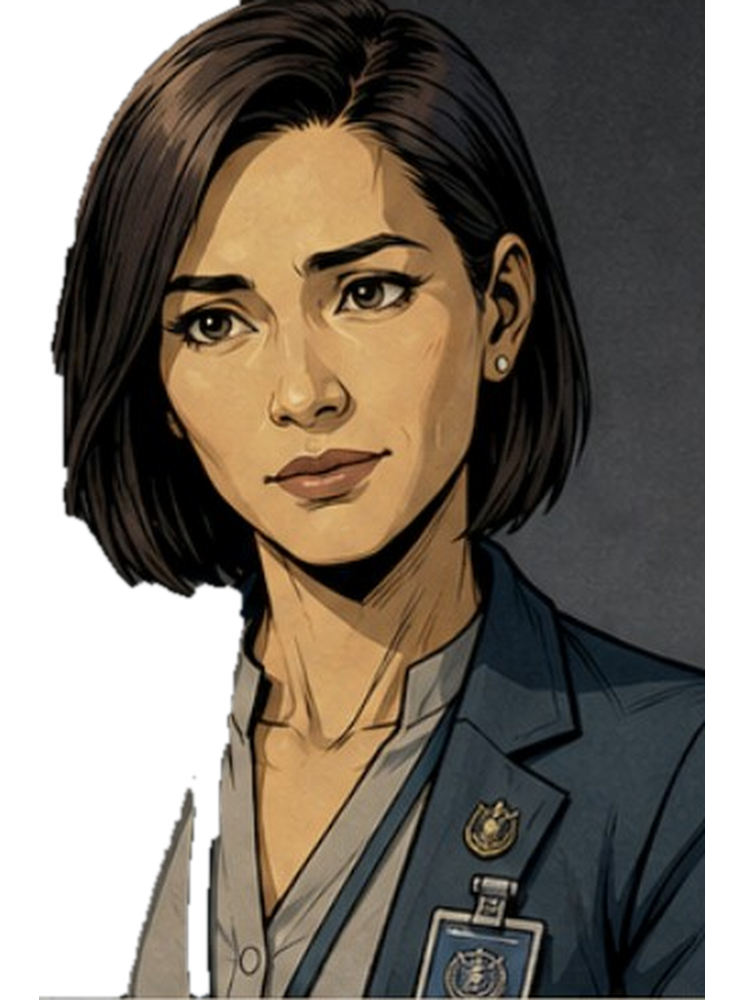
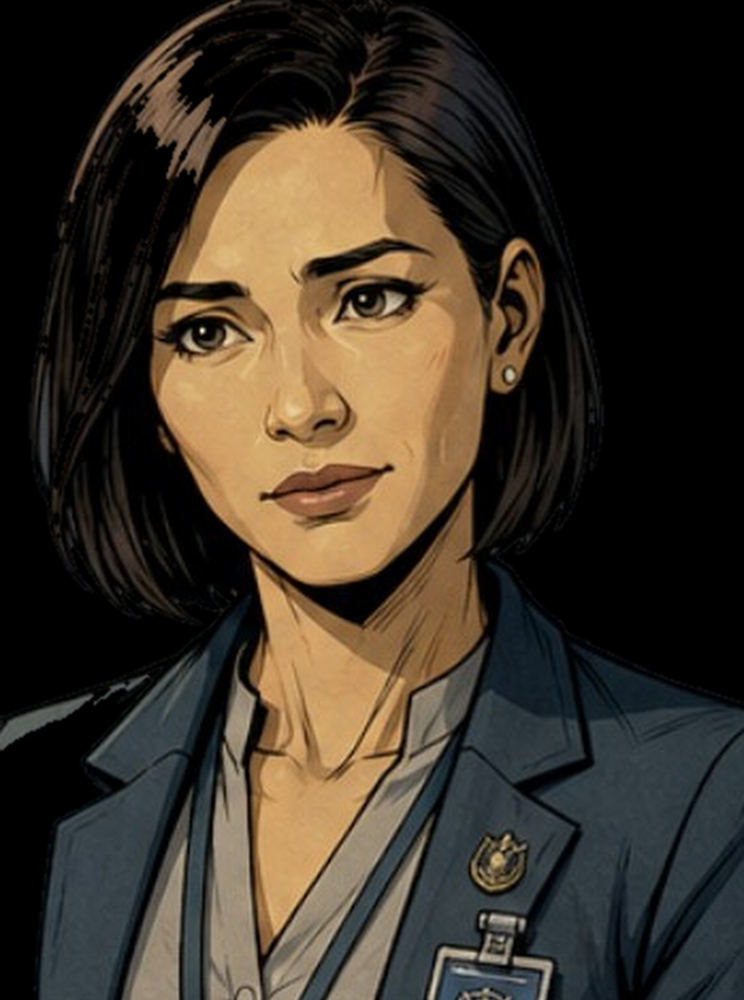
Add files via upload

diff --git a/js/chapters/chapter-04/02-jakarta-arrival.js b/js/chapters/chapter-04/02-jakarta-arrival.js
@@ -1,9 +1,9 @@
-/* LAST WITNESS — Chapter IV / Phase II: JAKARTA ARRIVAL 0.14.2 */
+/* LAST WITNESS — Chapter IV / Phase II: JAKARTA ARRIVAL 0.14.3 */
 (function(){
 "use strict";
-if(window.LastWitnessChapter4Phase2?.version==="0.14.2")return;
+if(window.LastWitnessChapter4Phase2?.version==="0.14.3")return;
 
-const BUILD="0.14.2";
+const BUILD="0.14.3";
 const FLIGHT="jakartaFlight";
 const AIRPORT="jakartaAirport";
 const OFFICE="jakartaCybercrimeOffice";
@@ -69,6 +69,12 @@ function fade(media,target,duration=430){
  fadeFrames.set(media,requestAnimationFrame(step))
 }
 function overlaysOpen(){return choiceOpen||consoleOpen}
+function playTakeoffAmbience(){
+ const s=gs(),a=$("#ch4P2TakeoffAmbience"),video=$("#ch4P2FlightVideo");if(s?.sound===false)return;const level=clamp(Number(s?.music??.33));
+ const retry=()=>{if(active()!==FLIGHT)return;try{if(a&&a.paused){a.muted=false;a.volume=clamp(level*.42,0,.38);a.play().catch(()=>{})}if(video&&video.paused){video.muted=false;video.volume=clamp(level*.18,0,.18);video.play().catch(()=>{})}}catch(_){}};
+ if(a){try{a.pause();a.currentTime=0;a.muted=false;a.volume=clamp(level*.42,0,.38);a.play().catch(()=>document.addEventListener("pointerdown",retry,{once:true}))}catch(_){}}
+ if(video){try{video.muted=false;video.volume=clamp(level*.18,0,.18)}catch(_){}}
+}
 function syncAudio(){
  const s=gs(),screen=active(),enabled=s?.sound!==false&&Number(s?.music??.33)>0,music=clamp(Number(s?.music??.33));
  const inFlight=screen===FLIGHT,inAirport=screen===AIRPORT,inOffice=screen===OFFICE,inLab=screen===LAB,inComplete=screen===COMPLETE;
@@ -186,7 +192,7 @@ function labObjective(){const p=ensure();if(!p?.verificationStarted)return tr("V
 
 function installPortraits(){
  const maya={
-  neutral:MAYA_BASE+"neutral.png?v=0142",focused:MAYA_BASE+"focused.png?v=0142",skeptical:MAYA_BASE+"skeptical.png?v=0142",analytical:MAYA_BASE+"analytical.png?v=0142",authoritative:MAYA_BASE+"authoritative.png?v=0142",questioning:MAYA_BASE+"questioning.png?v=0142",restrained_approval:MAYA_BASE+"restrained-approval.png?v=0142",calm_professional:MAYA_BASE+"calm-professional.png?v=0142",alert:MAYA_BASE+"alert.png?v=0142",decisive:MAYA_BASE+"decisive.png?v=0142",guarded:MAYA_BASE+"guarded.png?v=0142",softened_respect:MAYA_BASE+"softened-respect.png?v=0142",serious:MAYA_BASE+"focused.png?v=0142"
+  neutral:MAYA_BASE+"neutral.png?v=0143",focused:MAYA_BASE+"focused.png?v=0143",skeptical:MAYA_BASE+"skeptical.png?v=0143",analytical:MAYA_BASE+"analytical.png?v=0143",authoritative:MAYA_BASE+"authoritative.png?v=0143",questioning:MAYA_BASE+"questioning.png?v=0143",restrained_approval:MAYA_BASE+"restrained-approval.png?v=0143",calm_professional:MAYA_BASE+"calm-professional.png?v=0143",alert:MAYA_BASE+"alert.png?v=0143",decisive:MAYA_BASE+"decisive.png?v=0143",guarded:MAYA_BASE+"guarded.png?v=0143",softened_respect:MAYA_BASE+"softened-respect.png?v=0143",serious:MAYA_BASE+"focused.png?v=0143"
  };
  try{PORTRAITS["Inspector Maya Pranoto"]=maya;PORTRAITS["สารวัตร Maya Pranoto"]=maya;PORTRAITS["Maya Pranoto"]=maya}catch(_){}
 }
@@ -195,7 +201,7 @@ function mayaData(){return{
  role:{en:"Indonesian National Police Cybercrime Liaison",th:"ผู้ประสานงานตำรวจไซเบอร์อินโดนีเซีย"},
  status:{en:"Jurisdictional Partner",th:"พันธมิตรด้านเขตอำนาจ"},
  bio:{en:"A disciplined Indonesian cybercrime liaison who understands local infrastructure and refuses to collapse route, tool, operator and decision ownership into one conclusion.",th:"ผู้ประสานงานตำรวจไซเบอร์อินโดนีเซียผู้มีวินัย เข้าใจโครงสร้างพื้นฐานในพื้นที่ และไม่ยอมรวมเส้นทาง เครื่องมือ ผู้ใช้งาน และเจ้าของการตัดสินใจให้เป็นข้อสรุปเดียว"},
- src:MAYA_BASE+"profile.png?v=0142",relation:{value:61},metrics:[
+ src:MAYA_BASE+"profile.png?v=0143",relation:{value:61},metrics:[
   {key:"trust",label:{en:"Trust",th:"ความไว้วางใจ"},value:48},{key:"respect",label:{en:"Professional Respect",th:"ความนับถือทางวิชาชีพ"},value:66},{key:"rapport",label:{en:"Rapport",th:"ความคุ้นเคย"},value:8},{key:"suspicion",label:{en:"Suspicion",th:"ความสงสัย"},value:20}
  ]
 }}
@@ -224,7 +230,7 @@ function showMayaDetail(){
  const metrics=[
   [tr("Trust","ความไว้วางใจ"),r.trust,false],[tr("Professional Respect","ความนับถือทางวิชาชีพ"),r.respect,false],[tr("Rapport","ความคุ้นเคย"),r.attachment,false],[tr("Suspicion","ความสงสัย"),r.suspicion,true]
  ];
- detail.innerHTML=`<div data-detail-shell><div class="character-detail-head"><img data-detail-portrait data-detail-image="maya" src="${d.src}" alt="" width="512" height="640" loading="eager" decoding="async"><div class="maya-meta"><div class="character-name">${d.name[thai()?"th":"en"]}</div><div class="character-status">${d.role[thai()?"th":"en"]}<br><span class="character-age">37</span></div></div></div><div class="relation-metrics">${metrics.map(m=>`<div class="relation-metric${m[2]?" suspicion":""}"><div class="relation-metric-head"><span>${m[0]}</span><strong>${Math.round(Number(m[1])||0)}%</strong></div><div class="relation-bar"><div class="relation-fill" style="width:${Math.round(Number(m[1])||0)}%"></div></div></div>`).join("")}</div><div class="character-notes">${d.bio[thai()?"th":"en"]}</div></div>`;
+ detail.innerHTML=`<div data-detail-shell><div class="character-detail-head"><img data-detail-portrait data-detail-image="maya" src="${d.src}" alt="" width="512" height="640" loading="eager" decoding="async"><div class="maya-meta"><div class="character-name">${d.name[thai()?"th":"en"]}</div><div class="character-status">${thai()?"ผู้ประสานงานตำรวจไซเบอร์<br>อินโดนีเซีย":"Indonesian National Police<br>Cybercrime Liaison"}<br><span class="character-age">37</span></div></div></div><div class="relation-metrics">${metrics.map(m=>`<div class="relation-metric${m[2]?" suspicion":""}"><div class="relation-metric-head"><span>${m[0]}</span><strong>${Math.round(Number(m[1])||0)}%</strong></div><div class="relation-bar"><div class="relation-fill" style="width:${Math.round(Number(m[1])||0)}%"></div></div></div>`).join("")}</div><div class="character-notes">${d.bio[thai()?"th":"en"]}</div></div>`;
  if(grid)grid.style.display="none";detail.style.display="block";if(back)back.style.display="block"
 }
 function syncMayaDot(){const s=gs(),p=ensure(),mayaUnread=Boolean(mayaVisible()&&p?.mayaUnread),baseUnread=Boolean((s?.lwCharactersUnread||[]).length&&s?.journal?.seen===false);$$('.journal-alert').forEach(node=>node.classList.toggle('show',mayaUnread||baseUnread))}
@@ -238,16 +244,16 @@ function installJournalExtension(){
  renderMayaCard();syncMayaDot()
 }
 
-function injectStyle(){if($("#lwChapter04Phase02Style"))return;const link=document.createElement("link");link.id="lwChapter04Phase02Style";link.rel="stylesheet";link.href="css/chapter-04-phase-02.css?v=0142";document.head.appendChild(link)}
-function audioMarkup(){return `<audio id="ch4P2ArrivalScore" preload="auto" loop><source src="${AUDIO_BASE}jakarta-arrival-loop.webm?v=0142" type="audio/webm"><source src="${AUDIO_BASE}jakarta-arrival-loop.mp3?v=0142" type="audio/mpeg"></audio><audio id="ch4P2VerificationScore" preload="auto" loop><source src="${AUDIO_BASE}token-verification-loop.webm?v=0142" type="audio/webm"><source src="${AUDIO_BASE}token-verification-loop.mp3?v=0142" type="audio/mpeg"></audio><audio id="ch4P2AirportAmbience" preload="auto" loop><source src="${AUDIO_BASE}jakarta-airport-ops-loop.webm?v=0142" type="audio/webm"><source src="${AUDIO_BASE}jakarta-airport-ops-loop.mp3?v=0142" type="audio/mpeg"></audio><audio id="ch4P2AirportFieldBase" preload="auto" loop src="assets/audio/chapter-03/phase-03/changi-airport-ambience.mp3?v=0800"></audio><audio id="ch4P2OfficeAmbience" preload="auto" loop><source src="${AUDIO_BASE}jakarta-cybercrime-office-loop.webm?v=0142" type="audio/webm"><source src="${AUDIO_BASE}jakarta-cybercrime-office-loop.mp3?v=0142" type="audio/mpeg"></audio><audio id="ch4P2OfficeFieldBase" preload="auto" loop src="assets/audio/chapter-03/phase-04/singapore-investigation-office-ambience.mp3?v=0920"></audio>`}
+function injectStyle(){if($("#lwChapter04Phase02Style"))return;const link=document.createElement("link");link.id="lwChapter04Phase02Style";link.rel="stylesheet";link.href="css/chapter-04-phase-02.css?v=0143";document.head.appendChild(link)}
+function audioMarkup(){return `<audio id="ch4P2ArrivalScore" preload="auto" loop><source src="${AUDIO_BASE}jakarta-arrival-loop.webm?v=0143" type="audio/webm"><source src="${AUDIO_BASE}jakarta-arrival-loop.mp3?v=0143" type="audio/mpeg"></audio><audio id="ch4P2VerificationScore" preload="auto" loop><source src="${AUDIO_BASE}token-verification-loop.webm?v=0143" type="audio/webm"><source src="${AUDIO_BASE}token-verification-loop.mp3?v=0143" type="audio/mpeg"></audio><audio id="ch4P2TakeoffAmbience" preload="auto"><source src="${AUDIO_BASE}airplane-takeoff-ambience.webm?v=0143" type="audio/webm"><source src="${AUDIO_BASE}airplane-takeoff-ambience.mp3?v=0143" type="audio/mpeg"></audio><audio id="ch4P2AirportAmbience" preload="auto" loop><source src="${AUDIO_BASE}jakarta-airport-ops-loop.webm?v=0143" type="audio/webm"><source src="${AUDIO_BASE}jakarta-airport-ops-loop.mp3?v=0143" type="audio/mpeg"></audio><audio id="ch4P2AirportFieldBase" preload="auto" loop src="assets/audio/chapter-03/phase-03/changi-airport-ambience.mp3?v=0800"></audio><audio id="ch4P2OfficeAmbience" preload="auto" loop><source src="${AUDIO_BASE}jakarta-cybercrime-office-loop.webm?v=0143" type="audio/webm"><source src="${AUDIO_BASE}jakarta-cybercrime-office-loop.mp3?v=0143" type="audio/mpeg"></audio><audio id="ch4P2OfficeFieldBase" preload="auto" loop src="assets/audio/chapter-03/phase-04/singapore-investigation-office-ambience.mp3?v=0920"></audio>`}
 function sharedScene(id,classes,image,alt){return `<section id="${id}" class="screen ch4-p2-screen ${classes}"><img class="scene" src="${image}" alt="${alt}"><div class="overlay ch4-p2-overlay"></div><div class="topbar"><span id="${id}Location"></span><div class="hud"><button class="icon ch4-p2-save" type="button">💾</button><button class="icon ch4-p2-menu" type="button">☰<i class="journal-alert" aria-hidden="true"></i></button></div></div><div id="${id}Scene" class="ch4-p2-label"></div><div id="${id}Objective" class="ch4-p2-objective"></div><div id="${id}Dialogue" class="dialogue ch4-p2-dialogue hidden"></div><button id="${id}Action" class="primary ch4-p2-action" type="button" hidden></button><div class="ch4-p2-progress"><span class="ch4-p2-progress-text">0%</span><div><i class="ch4-p2-progress-fill"></i></div></div></section>`}
 function inject(){
  if($("#"+FLIGHT))return;const game=$("#game");if(!game)return;
  game.insertAdjacentHTML("beforeend",`
  <section id="${FLIGHT}" class="screen ch4-p2-flight"><video id="ch4P2FlightVideo" poster="${TAKEOFF_POSTER}" preload="auto" playsinline muted><source src="${TAKEOFF_VIDEO}" type="video/mp4"></video><div class="ch4-p2-flight-shade"></div><div class="ch4-p2-flight-head"><span id="ch4P2FlightHead"></span><span id="ch4P2FlightStatus"></span></div><div id="ch4P2FlightRoute" class="ch4-p2-flight-route"><div id="ch4P2RouteEye" class="eyebrow"></div><h2 id="ch4P2RouteTitle"></h2><div class="ch4-p2-route-grid"><div><span id="ch4P2DepartLabel"></span><strong>SINGAPORE<br>23:20 SGT</strong></div><div class="ch4-p2-route-arrow">→</div><div><span id="ch4P2ArriveLabel"></span><strong>JAKARTA<br>00:10 WIB</strong></div></div><p id="ch4P2FlightTime"></p><button id="ch4P2RouteContinue" class="primary" type="button"></button></div><button id="ch4P2Skip" class="ghost ch4-p2-skip" type="button"></button></section>
- ${sharedScene(AIRPORT,"ch4-p2-airport",BASE+"jakarta-airport-operations-corridor.png?v=0142","Jakarta airport operations corridor at night")}
- ${sharedScene(OFFICE,"ch4-p2-office",BASE+"jakarta-cybercrime-office.png?v=0142","Jakarta cybercrime operations office")}
- ${sharedScene(LAB,"ch4-p2-lab",BASE+"jakarta-verification-lab.png?v=0142","Jakarta verification laboratory")}
+ ${sharedScene(AIRPORT,"ch4-p2-airport",BASE+"jakarta-airport-operations-corridor.png?v=0143","Jakarta airport operations corridor at night")}
+ ${sharedScene(OFFICE,"ch4-p2-office",BASE+"jakarta-cybercrime-office.png?v=0143","Jakarta cybercrime operations office")}
+ ${sharedScene(LAB,"ch4-p2-lab",BASE+"jakarta-verification-lab.png?v=0143","Jakarta verification laboratory")}
  <section id="${COMPLETE}" class="screen ch4-p2-complete"><div class="ch4-p2-complete-card"><div id="ch4P2CompleteEye" class="eyebrow"></div><h2 id="ch4P2CompleteTitle"></h2><div class="ch4-p2-rule"></div><p id="ch4P2CompleteBody"></p><div class="ch4-p2-complete-grid"><div><span>TOKEN</span><b>GENUINE · SINGLE USE</b></div><div><span>BROKER ROUTE</span><b>JAKARTA-LINKED</b></div><div><span>ATTRIBUTION ROLE</span><b>NORTH</b></div><div><span>HUMAN IDENTITY</span><b>UNRESOLVED</b></div></div><strong id="ch4P2Next"></strong><button id="ch4P2ReturnTitle" class="primary" type="button"></button></div></section>
  <div id="ch4P2Choice" class="modal ch4-p2-choice" aria-hidden="true"><div class="modal-card"><div class="eyebrow">BENEDICT · OPERATIONAL PRINCIPLE</div><h3 id="ch4P2ChoiceTitle"></h3><button type="button" data-ch4-p2-choice="tool"></button><button type="button" data-ch4-p2-choice="jurisdiction"></button><button type="button" data-ch4-p2-choice="trap"></button></div></div>
  <div id="ch4P2Console" class="modal ch4-p2-console" aria-hidden="true"><div class="modal-card"><header><div><div id="ch4P2ConsoleEye" class="eyebrow"></div><h3 id="ch4P2ConsoleTitle"></h3></div><button id="ch4P2ConsoleClose" class="ghost" type="button">×</button></header><div class="ch4-p2-console-readout"><span>TOKEN STATE</span><strong id="ch4P2TokenState">PRESERVED · SINGLE USE</strong><span>NETWORK</span><b id="ch4P2NetworkState">DISCONNECTED</b><span>ATTRIBUTION</span><b id="ch4P2AttributionState">UNRESOLVED</b></div><div id="ch4P2ConsoleLog" class="ch4-p2-console-log"></div><div id="ch4P2ConsoleActions" class="ch4-p2-console-actions">${["preserve_hash","clone_sandbox","passive_challenge","compare_grammar","open_live","trace_responder"].map(id=>`<button type="button" data-verify-action="${id}"></button>`).join("")}</div><div id="ch4P2ConsoleStatus" class="ch4-p2-console-status" aria-live="polite"></div></div></div>
@@ -282,7 +288,7 @@ function startFromPhase1(){
 }
 function enterFlight(){
  const p=ensure();p.started=true;p.stage="flight";setCheckpoint("ch4_phase2_flight");safeShow(FLIGHT);$("#ch4P2FlightRoute")?.classList.remove("show");$("#ch4P2Skip")&&( $("#ch4P2Skip").hidden=false );updateLanguage();
- const video=$("#ch4P2FlightVideo");if(!video){showRouteCard();return}try{video.currentTime=0;video.muted=true;video.play().catch(()=>{flightTimer=setTimeout(showRouteCard,1200)})}catch(_){flightTimer=setTimeout(showRouteCard,800)}
+ const video=$("#ch4P2FlightVideo");playTakeoffAmbience();if(!video){showRouteCard();return}try{video.currentTime=0;video.play().catch(()=>{flightTimer=setTimeout(showRouteCard,1200)})}catch(_){flightTimer=setTimeout(showRouteCard,800)}
 }
 function showRouteCard(){
  clearTimeout(flightTimer);const p=ensure();p.flightComplete=true;p.routeCardSeen=true;p.stage="route-card";setCheckpoint("ch4_phase2_route_card");safeShow(FLIGHT);const video=$("#ch4P2FlightVideo");try{video.pause()}catch(_){};$("#ch4P2FlightRoute")?.classList.add("show");$("#ch4P2Skip")&&( $("#ch4P2Skip").hidden=true );updateLanguage();save()
@@ -365,7 +371,7 @@ function appendCaseEvidence(){
 }
 function setBuild(){const label=$("#settingsVersion");if(label)label.textContent=`LAST WITNESS · BUILD ${BUILD}`;if(window.LastWitnessSaveManager)window.LastWitnessSaveManager.version=BUILD}
 function installSaveBridge(){
- if(window.__lwChapter4Phase2SaveBridge0142)return;window.__lwChapter4Phase2SaveBridge0142=true;
+ if(window.__lwChapter4Phase2SaveBridge0143)return;window.__lwChapter4Phase2SaveBridge0143=true;
  const baseRestore=typeof restore==="function"?restore:window.restore;
  if(typeof baseRestore==="function"){
   const wrapped=function(data){stopAudio(true);const result=baseRestore.apply(this,arguments);if(SCREENS.has(String(data?.screen||""))){const s=gs();if(s)s.chapter4=clone(data?.chapter4||s.chapter4||{});setTimeout(()=>resumeFromState(data.screen),170)}return result};
@@ -388,7 +394,7 @@ function resumeFromState(screen){
 }
 function installDevJumps(){
  const grid=$("#developerModal .dev-grid");if(!grid)return;
- const add=(key,label,handler)=>{let b=grid.querySelector(`[data-dev-jump="${key}"]`);if(!b){b=document.createElement("button");b.className="dev-button";b.type="button";b.dataset.devJump=key;grid.appendChild(b)}b.textContent=label;if(b.dataset.lwBound0142==="1")return;b.dataset.lwBound0142="1";b.addEventListener("click",event=>{event.preventDefault();event.stopPropagation();event.stopImmediatePropagation();$("#developerModal")?.classList.remove("open");handler()},true)};
+ const add=(key,label,handler)=>{let b=grid.querySelector(`[data-dev-jump="${key}"]`);if(!b){b=document.createElement("button");b.className="dev-button";b.type="button";b.dataset.devJump=key;grid.appendChild(b)}b.textContent=label;if(b.dataset.lwBound0143==="1")return;b.dataset.lwBound0143="1";b.addEventListener("click",event=>{event.preventDefault();event.stopPropagation();event.stopImmediatePropagation();$("#developerModal")?.classList.remove("open");handler()},true)};
  add("chapter4Phase2",tr("Chapter IV · Phase II · Jakarta Arrival","บทที่ IV · เฟส II · เดินทางถึง Jakarta"),startFreshForDev);
  add("chapter4Phase2Verification",tr("Chapter IV · Phase II · Token Verification","บทที่ IV · เฟส II · ตรวจสอบ Token"),jumpVerificationForDev)
 }

diff --git a/css/chapter-04-phase-02.css b/css/chapter-04-phase-02.css
@@ -1,4 +1,4 @@
-/* LAST WITNESS — Chapter IV / Phase II: JAKARTA ARRIVAL 0.14.2 */
+/* LAST WITNESS — Chapter IV / Phase II: JAKARTA ARRIVAL 0.14.3 */
 .ch4-p2-screen{display:none;background:#05070a;color:#f5efe6;overflow:hidden}
 .ch4-p2-screen.active{display:block}
 .ch4-p2-screen>.scene{object-position:center center;filter:saturate(.82) contrast(1.045) brightness(.72)}
@@ -71,14 +71,11 @@ html[lang="th"] .ch4-p2-choice button,html[lang="th"] .ch4-p2-console-actions bu
 @media(prefers-reduced-motion:reduce){.ch4-p2-progress i,.ch4-p2-flight-route{transition:none}.ch4-p2-complete:before{background:linear-gradient(145deg,rgba(221,181,109,.055),transparent 42%)}}
 
 
-/* 0.14.2 Maya visibility and metadata fixes */
-.ch4-p2-dialogue .portrait-wrap{background:linear-gradient(160deg,#202733,#0f141b);box-shadow:inset 0 0 0 1px rgba(221,181,109,.08)}
-.ch4-p2-dialogue .portrait.maya-portrait{object-fit:contain;object-position:center bottom;transform:scale(1.17);transform-origin:center 80%;filter:drop-shadow(0 7px 12px rgba(0,0,0,.42))}
-.character-card[data-character="maya"] img,[data-detail-image="maya"]{background:linear-gradient(160deg,#304051,#131922)!important;box-shadow:inset 0 0 0 1px rgba(221,181,109,.10)}
-.character-card[data-character="maya"] img{object-position:center 14%!important;transform:scale(1.18)!important}
-[data-detail-image="maya"]{object-position:center 14%!important;transform:scale(1.16)!important}
-.character-detail-head{align-items:flex-start}
-.character-detail-head>.maya-meta{min-width:0;flex:1 1 auto}
-.character-detail-head .character-status{display:block;max-width:100%;white-space:normal;overflow-wrap:anywhere;line-height:1.32;font-size:clamp(14px,3.7vw,17px)}
-.character-detail-head .character-age{display:inline-block;margin-top:2px;opacity:.88}
-.character-card[data-character="maya"] .character-status{display:block;white-space:normal;overflow-wrap:anywhere;line-height:1.32}
+/* 0.14.3 portrait restoration: preserve existing characters, black backgrounds only */
+.ch4-p2-dialogue .portrait-wrap{background:#030406!important;box-shadow:none!important}
+.ch4-p2-dialogue .portrait{background:transparent!important}
+.ch4-p2-dialogue .portrait.maya-portrait{object-fit:cover!important;object-position:center top!important;transform:scale(1.02)!important;transform-origin:center top!important;filter:none!important}
+.character-card[data-character="maya"] img{object-fit:cover!important;object-position:center top!important;transform:none!important;background:#030406!important;filter:none!important;box-shadow:none!important}
+[data-detail-image="maya"]{object-fit:cover!important;object-position:center top!important;transform:none!important;background:#030406!important;filter:none!important;box-shadow:none!important}
+.character-detail-head>.maya-meta{min-width:0;flex:1 1 auto;max-width:calc(100% - 170px)}
+.character-detail-head .character-status{white-space:normal!important;overflow-wrap:normal!important;word-break:normal!important;line-height:1.35!important}

diff --git a/js/engine/09-defect-hotfix.js b/js/engine/09-defect-hotfix.js
@@ -1,4 +1,4 @@
-/* LAST WITNESS — Legacy Compatibility Shim + Chapter IV Bootstrap 0.14.2
+/* LAST WITNESS — Legacy Compatibility Shim + Chapter IV Bootstrap 0.14.3
  * Historical repair logic remains consolidated elsewhere. This file installs no
  * repair listeners or polling loops. It only loads the approved Chapter IV
  * modules once, in deterministic narrative order.
@@ -18,6 +18,6 @@ function script(src,id,ready){
 }
 
 script("js/chapters/chapter-04/01-afterimage.js?v=0132","lwChapter04Phase01Script",()=>Boolean(window.LastWitnessChapter4Phase1))
- .then(()=>{stylesheet("css/chapter-04-phase-02.css?v=0142","lwChapter04Phase02Style");return script("js/chapters/chapter-04/02-jakarta-arrival.js?v=0142","lwChapter04Phase02Script",()=>Boolean(window.LastWitnessChapter4Phase2))})
+ .then(()=>{stylesheet("css/chapter-04-phase-02.css?v=0143","lwChapter04Phase02Style");return script("js/chapters/chapter-04/02-jakarta-arrival.js?v=0143","lwChapter04Phase02Script",()=>Boolean(window.LastWitnessChapter4Phase2))})
  .catch(error=>console.error("LAST WITNESS Chapter IV bootstrap failed",error));
 })();
